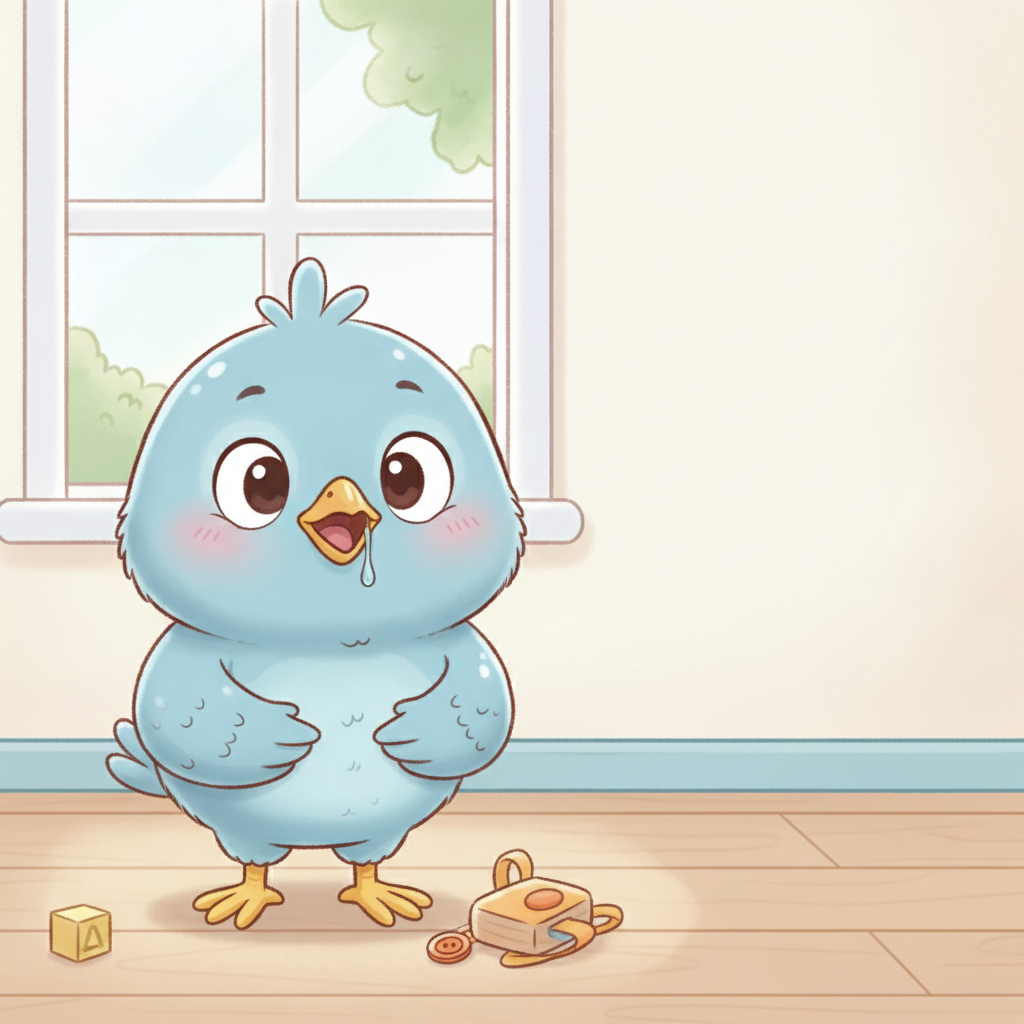
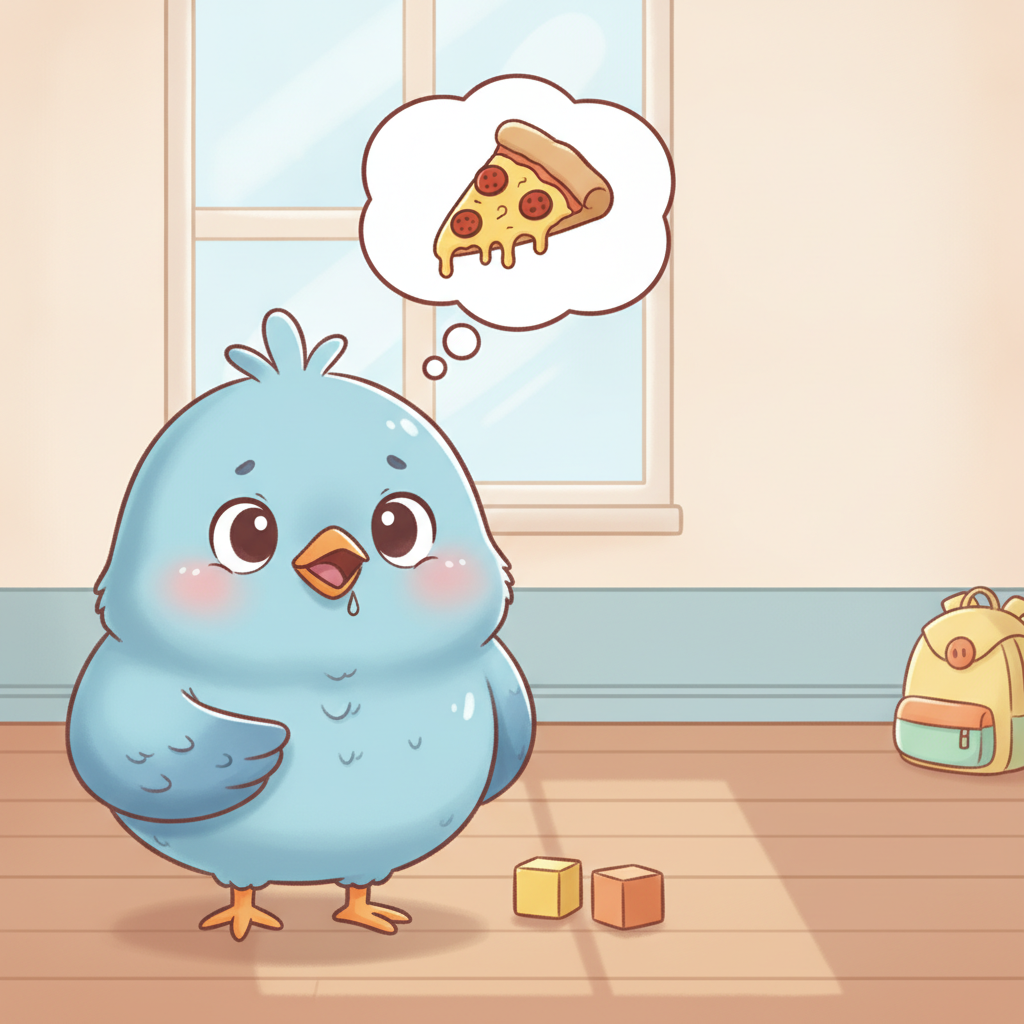
Dock vocab-scene cards to the empty side of the frame; add a pizza thought bubble to Willow's hungry scene
- meet scenes gain an optional cardSide ('left'|'right'); MeetScene now
  docks the teacher-instruction card, replay card, tap-hint, and pulsing
  tap-ring to that side (default stays centered for existing scenes) so
  they land on the open half of the frame instead of over the character.
- Regenerated bg-vocab-willow-hungry.png with a thought bubble showing a
  slice of pizza, per direct request, to make "hungry" concrete.

diff --git a/src/content/playground-library/welcome-town/SceneRenderer.tsx b/src/content/playground-library/welcome-town/SceneRenderer.tsx
@@ -296,6 +296,18 @@ function MeetScene({ scene, onNext, onWin }: { scene: Extract<Scene, { kind: 'me
   };
   const endHold = () => { setHeld(false); if (holdTimer.current) window.clearTimeout(holdTimer.current); };
 
+  // The character is painted into one side of `scene.bg` (left/right third),
+  // leaving the opposite side open for these floating cards — dock them
+  // there instead of centering over the character. Omit `cardSide` to keep
+  // the original centered layout (existing scenes that reuse a shared,
+  // symmetric background).
+  const cardAlignClass = scene.cardSide === 'left' ? 'mr-auto ml-2 sm:ml-8'
+    : scene.cardSide === 'right' ? 'ml-auto mr-2 sm:mr-8'
+    : 'mx-auto';
+  const charJustifyClass = scene.cardSide === 'right' ? 'justify-start pl-6 sm:pl-14'
+    : scene.cardSide === 'left' ? 'justify-end pr-6 sm:pr-14'
+    : 'justify-center';
+
   return (
     <div className="relative min-h-[78vh]">
       <div className="pointer-events-none absolute inset-x-0 top-0 z-20 flex justify-center">
@@ -303,7 +315,7 @@ function MeetScene({ scene, onNext, onWin }: { scene: Extract<Scene, { kind: 'me
           ⚔ Quest · Meet {c.name}
         </div>
       </div>
-      <div className="mx-auto mt-8 max-w-md">
+      <div className={`mt-8 max-w-md ${cardAlignClass}`}>
         <div className="rounded-2xl px-4 py-3 text-center text-lg font-bold text-white shadow-2xl" style={{ background: 'linear-gradient(135deg, rgba(0,0,0,0.6), rgba(0,0,0,0.35))', backdropFilter: 'blur(8px)', textShadow: '0 2px 6px rgba(0,0,0,0.4)' }}>
           {scene.teacher}
         </div>
@@ -314,7 +326,7 @@ function MeetScene({ scene, onNext, onWin }: { scene: Extract<Scene, { kind: 'me
           for this exact idle-tap pattern in the Pre-A1 lessons. */}
       {phase === 'idle' && <button onClick={tapCharacter} aria-label={`Tap ${c.name} to say hello`} className="absolute inset-0 z-10 h-[60vh] w-full cursor-pointer bg-transparent" />}
       {phase === 'idle' && (
-        <div className="pointer-events-none absolute inset-x-0 top-[26vh] z-10 grid place-items-center">
+        <div className={`pointer-events-none absolute inset-x-0 top-[26vh] z-10 flex ${charJustifyClass}`}>
           <div className="relative h-40 w-40" style={{ animation: 'lep1-wiggle 3s ease-in-out infinite' }}>
             <span className="absolute inset-0 rounded-full" style={{ background: `radial-gradient(circle, ${c.color}55, transparent 65%)`, animation: 'lep1-ping 2s ease-out infinite' }} />
             <span className="absolute inset-6 rounded-full border-4" style={{ borderColor: c.color, animation: 'lep1-ping 2s ease-out 0.4s infinite' }} />
@@ -325,18 +337,18 @@ function MeetScene({ scene, onNext, onWin }: { scene: Extract<Scene, { kind: 'me
           the painted background right as they speak, then the vocabulary
           card below pops up already illustrating the word on its own. */}
       {glow && (
-        <div className="pointer-events-none absolute inset-x-0 top-[8vh] z-10 h-[55vh] grid place-items-center" style={{ animation: 'lep1-twinkle 1.4s ease-in-out' }}>
-          <div className="h-full w-full rounded-full" style={{ background: `radial-gradient(circle, ${c.color}66 0%, ${c.color}22 45%, transparent 70%)` }} />
+        <div className={`pointer-events-none absolute inset-x-0 top-[8vh] z-10 h-[55vh] flex ${charJustifyClass}`} style={{ animation: 'lep1-twinkle 1.4s ease-in-out' }}>
+          <div className="h-full w-full max-w-md rounded-full" style={{ background: `radial-gradient(circle, ${c.color}66 0%, ${c.color}22 45%, transparent 70%)` }} />
         </div>
       )}
       {xpBurst && (
-        <div className="pointer-events-none absolute inset-x-0 top-[32vh] z-30 grid place-items-center">
+        <div className={`pointer-events-none absolute inset-x-0 top-[32vh] z-30 flex ${charJustifyClass}`}>
           <div className="animate-[lep1-pop-fade_1.1s_ease-out_forwards] rounded-full bg-gradient-to-r from-orange-500 to-pink-500 px-5 py-2 text-2xl font-black text-white shadow-2xl">+10 XP 💎</div>
         </div>
       )}
       {phase !== 'idle' && (
         <div className="pointer-events-none absolute inset-x-0 top-[12vh] z-20 flex justify-center px-4">
-          <button onClick={replayIntro} className="group pointer-events-auto relative flex w-full max-w-sm flex-col items-center gap-2 rounded-[2rem] border-4 bg-white px-6 py-5 text-center shadow-2xl active:scale-95" style={{ borderColor: c.color, animation: 'lep1-pop 0.4s ease-out' }}>
+          <button onClick={replayIntro} className={`group pointer-events-auto relative flex w-full max-w-sm flex-col items-center gap-2 rounded-[2rem] border-4 bg-white px-6 py-5 text-center shadow-2xl active:scale-95 ${cardAlignClass}`} style={{ borderColor: c.color, animation: 'lep1-pop 0.4s ease-out' }}>
             <span className="grid h-16 w-16 place-items-center rounded-full text-4xl shadow-inner" style={{ background: `${c.color}22` }}>{c.emoji}</span>
             <span className="text-2xl font-black sm:text-3xl" style={{ color: c.color }}>{repeatWord}</span>
             <span className="text-sm font-semibold text-neutral-500">🔊 “{scene.line}”</span>
@@ -344,7 +356,7 @@ function MeetScene({ scene, onNext, onWin }: { scene: Extract<Scene, { kind: 'me
         </div>
       )}
       {phase === 'idle' && (
-        <div className="pointer-events-none absolute inset-x-0 top-[44vh] z-20 grid place-items-center">
+        <div className={`pointer-events-none absolute inset-x-0 top-[44vh] z-20 flex ${charJustifyClass}`}>
           <span className="animate-pulse rounded-full bg-white/95 px-5 py-2 text-base font-bold shadow-xl" style={{ color: c.color }}>👆 Tap {c.name} {c.emoji}</span>
         </div>
       )}

diff --git a/src/content/playground-library/welcome-town/scenes.ts b/src/content/playground-library/welcome-town/scenes.ts
@@ -120,7 +120,11 @@ const bgExpressGoodbyeV2 = `${W}/scenes/bg-express-goodbye-v2.png`;
 export type Scene =
   | { id: string; kind: 'title-card'; bg: string; level: string; unit: string; lessonLabel: string; title: string; subtitle: string; cta?: string }
   | { id: string; kind: 'cinematic'; bg: string; title: string; subtitle: string; narrator: CharKey; script: { who: CharKey; line: string }[]; cta: string }
-  | { id: string; kind: 'meet'; bg: string; who: CharKey; teacher: string; line: string; repeat: string }
+  // `cardSide` lets the teacher-instruction/repeat cards dock to whichever
+  // side of the full-bleed `bg` was left empty for them (the character is
+  // composed into the opposite side) instead of floating centered over the
+  // character's face — omit for the default centered layout.
+  | { id: string; kind: 'meet'; bg: string; who: CharKey; teacher: string; line: string; repeat: string; cardSide?: 'left' | 'right' }
   | { id: string; kind: 'echo'; bg: string; who: CharKey; teacher: string; word: string }
   | { id: string; kind: 'memory'; bg: string; teacher: string; pairs: { id: string; label: string; emoji: string }[] }
   | { id: string; kind: 'drag-match'; bg: string; teacher: string; items: { label: string; color: string; targetLeft: string; targetTop: string; who?: CharKey }[]; showBlanks?: boolean; pointTo?: { who: CharKey; left: string; top: string; dir?: 'down' | 'left' | 'right' }[] }
@@ -514,23 +518,27 @@ export const LESSON_2_SCENES: Scene[] = [
    * expressing that one feeling, BEFORE any word is combined into the
    * five-hotspot group scene below. */
   {
-    id: 'wt2-vocab-pip-happy', kind: 'meet', bg: bgVocabPipHappy, who: 'pip',
+    // Character composed into the LEFT third of bg-vocab-pip-happy.png —
+    // cards dock right, onto the empty side.
+    id: 'wt2-vocab-pip-happy', kind: 'meet', bg: bgVocabPipHappy, who: 'pip', cardSide: 'right',
     teacher: 'Listen, then repeat!', line: 'Pip is happy!', repeat: 'Happy!',
   },
   {
-    id: 'wt2-vocab-leo-tired', kind: 'meet', bg: bgVocabLeoTired, who: 'leo',
+    // Character composed into the RIGHT third of bg-vocab-leo-tired.png —
+    // cards dock left.
+    id: 'wt2-vocab-leo-tired', kind: 'meet', bg: bgVocabLeoTired, who: 'leo', cardSide: 'left',
     teacher: 'Listen, then repeat!', line: 'Leo is tired!', repeat: 'Tired!',
   },
   {
-    id: 'wt2-vocab-mia-sad', kind: 'meet', bg: bgVocabMiaSad, who: 'mia',
+    id: 'wt2-vocab-mia-sad', kind: 'meet', bg: bgVocabMiaSad, who: 'mia', cardSide: 'right',
     teacher: 'Listen, then repeat!', line: 'Mia is sad!', repeat: 'Sad!',
   },
   {
-    id: 'wt2-vocab-bella-angry', kind: 'meet', bg: bgVocabBellaAngry, who: 'bella',
+    id: 'wt2-vocab-bella-angry', kind: 'meet', bg: bgVocabBellaAngry, who: 'bella', cardSide: 'left',
     teacher: 'Listen, then repeat!', line: 'Bella is angry!', repeat: 'Angry!',
   },
   {
-    id: 'wt2-vocab-willow-hungry', kind: 'meet', bg: bgVocabWillowHungry, who: 'willow',
+    id: 'wt2-vocab-willow-hungry', kind: 'meet', bg: bgVocabWillowHungry, who: 'willow', cardSide: 'right',
     teacher: 'Listen, then repeat!', line: 'Willow is hungry!', repeat: 'Hungry!',
   },
 
